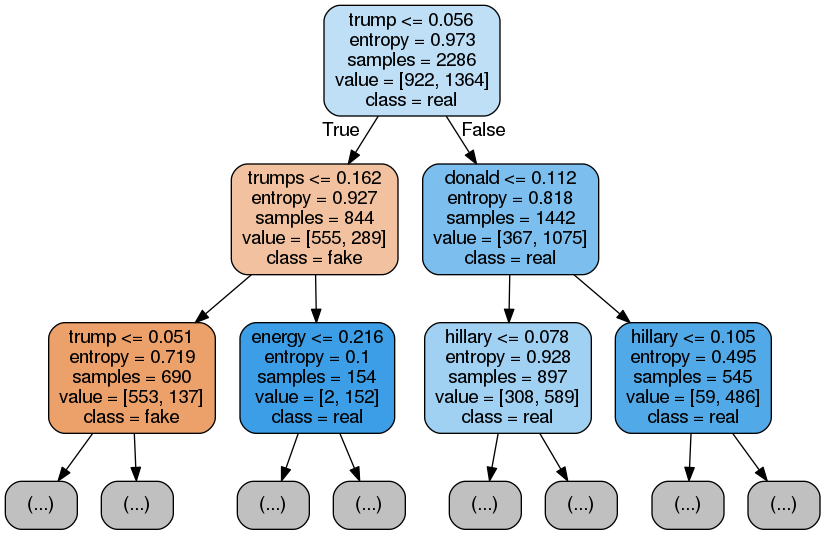
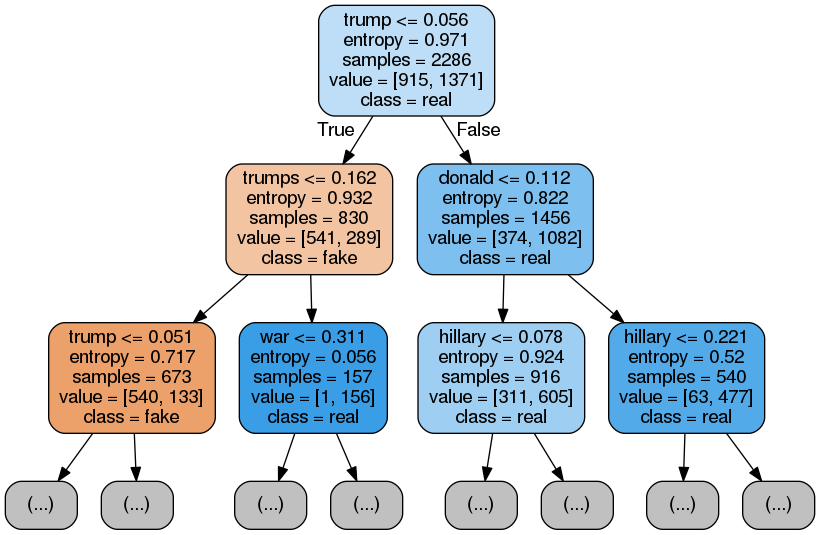
Last minute adjustments

diff --git a/homework/hw1/hw1_code.py b/homework/hw1/hw1_code.py
@@ -9,7 +9,7 @@ from sklearn.tree import DecisionTreeClassifier, export_graphviz
 
 # 0 = assignment submission, 1 = regular development, 2 = debugging
 PRINT_LEVEL = 0
-np.random.seed(411231)
+np.random.seed(333)
 
 def load_data():
     fake_file = open("clean_fake.txt", "r")

diff --git a/homework/hw1/q1.py b/homework/hw1/q1.py
@@ -8,9 +8,9 @@ def getZ():
     return Z
 
 results = []
-iterations = 1000
+iterations = 10000
 i = 0
-d = 10000
+d = 100
 while i < iterations:
     print(iterations - i)
     i += 1
